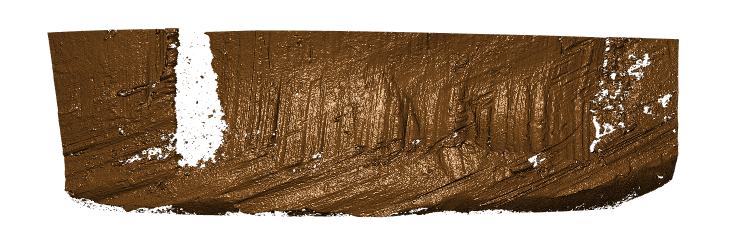
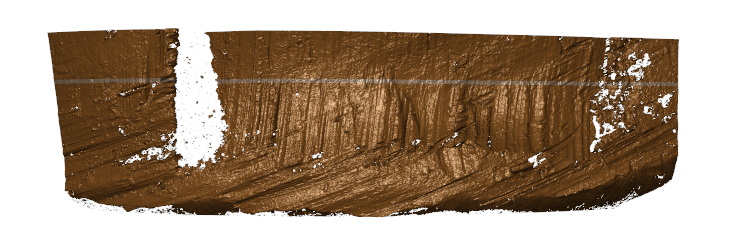
add image_x3p argument crosscut to demonstration of strange crosscut [skip ci]

diff --git a/README.md b/README.md
@@ -68,11 +68,6 @@ if (!dir.exists("README_files/data")) {
 if (!file.exists("README_files/data/Bullet1/Hamby252_Barrel1_Bullet1_Land1.x3p")) {
   NRBTDsample_download("README_files/data")
 }
-```
-
-    ##  [1] 0 0 0 0 0 0 0 0 0 0 0 0
-
-``` r
 b1 <- read_bullet("README_files/data/Bullet1")
 ```
 
@@ -216,7 +211,7 @@ of the land is at a height of 375, which is not as much affected by the
 rash as the base of the bullet or the top of the scanning
     area.
 
-    filter(bullets, land==6, bullet==1)$x3p[[1]] %>% image_x3p(file="bullet1-land6.png")
+    filter(bullets, land==6, bullet==1)$x3p[[1]] %>% image_x3p(file="bullet1-land6.png", crosscut = 375)
 
 ![Scan of land 6 on bullet 1. The land is affected by quite pronounced
 tank
